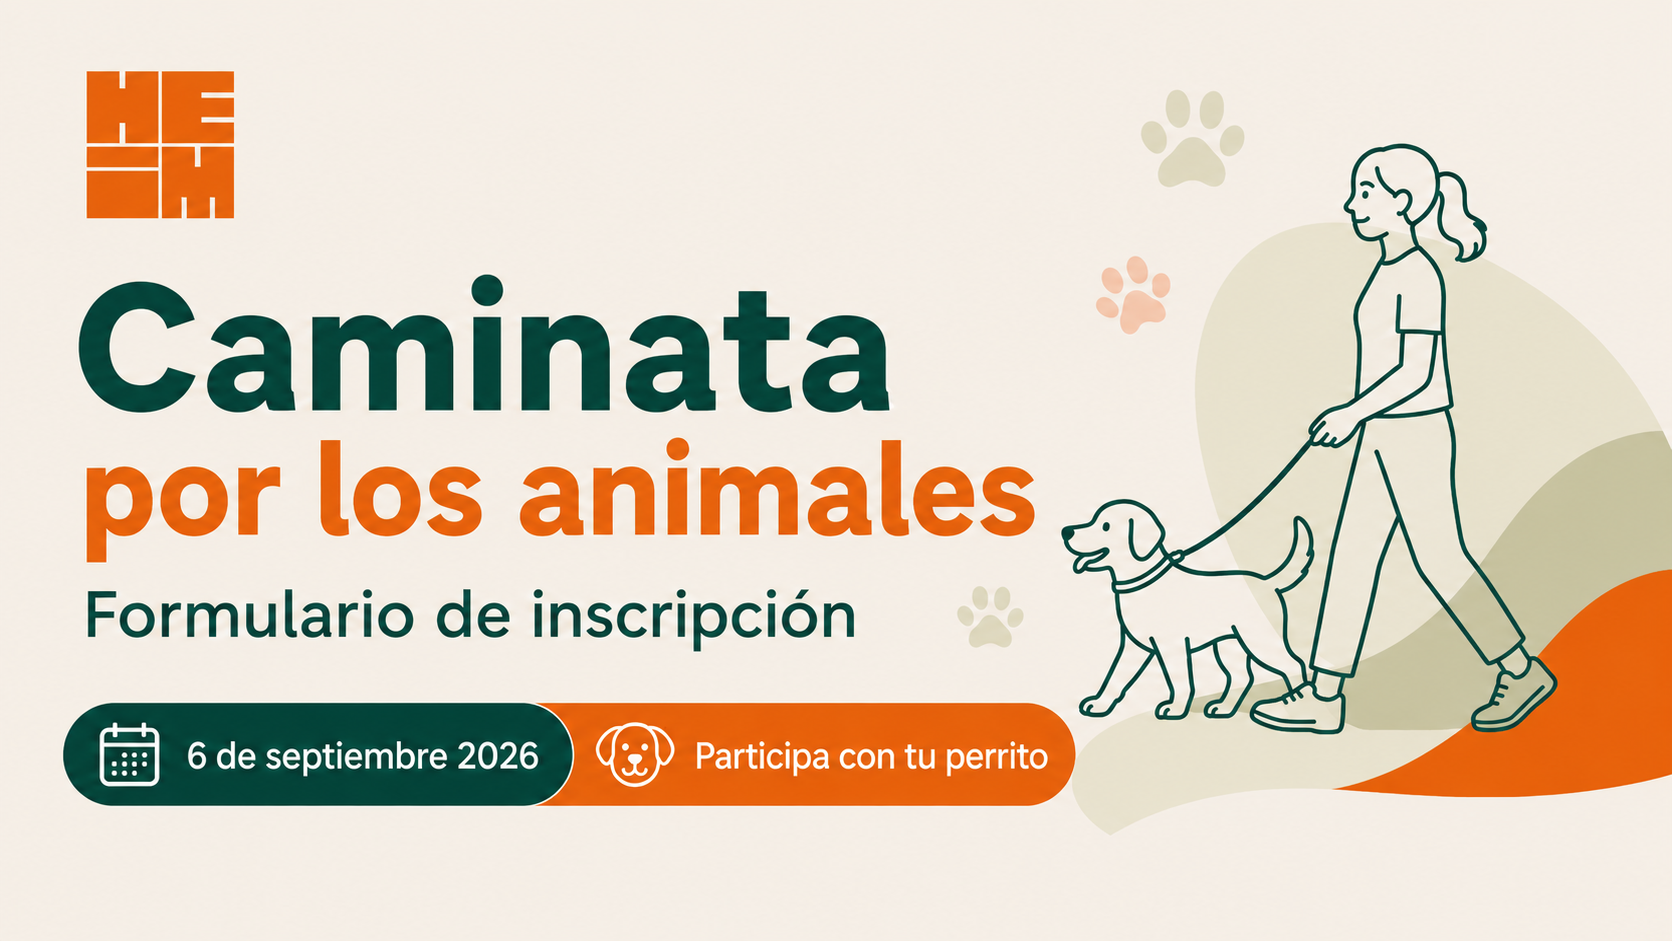
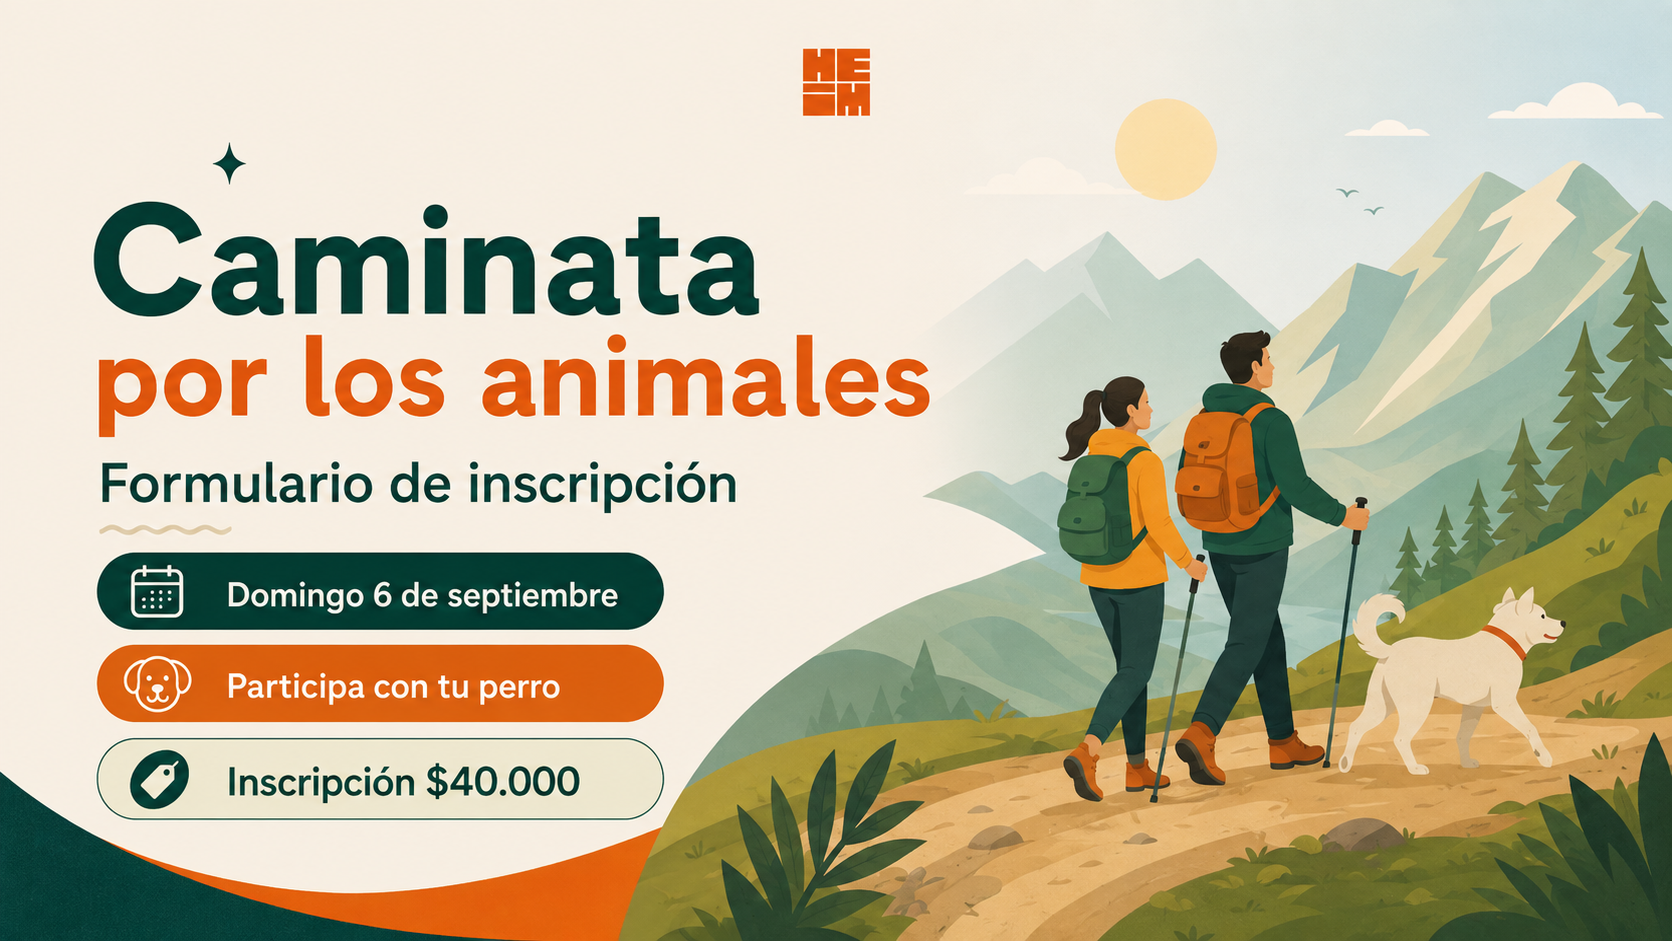
SEO: actualizar portada del enlace (nueva imagen de caminata)
- Reemplaza public/og-cover.png con la portada actualizada
- Versiona la URL de la imagen (?v=2) para invalidar la caché de
  WhatsApp/redes al compartir el enlace

diff --git a/src/app/layout.tsx b/src/app/layout.tsx
@@ -44,7 +44,7 @@ export const metadata: Metadata = {
     description,
     images: [
       {
-        url: "/og-cover.png",
+        url: "/og-cover.png?v=2",
         width: 1672,
         height: 941,
         alt: "Caminata por los animales — Formulario de inscripción · 6 de septiembre 2026",
@@ -55,7 +55,7 @@ export const metadata: Metadata = {
     card: "summary_large_image",
     title,
     description,
-    images: ["/og-cover.png"],
+    images: ["/og-cover.png?v=2"],
   },
   icons: {
     icon: "/icon.png",
@@ -83,7 +83,7 @@ export default function RootLayout({ children }: LayoutProps<"/">) {
     eventStatus: "https://schema.org/EventScheduled",
     eventAttendanceMode: "https://schema.org/OfflineEventAttendanceMode",
     description,
-    image: [`${siteUrl}/og-cover.png`],
+    image: [`${siteUrl}/og-cover.png?v=2`],
     organizer: { "@type": "Organization", name: "HEIM", url: siteUrl },
     location: {
       "@type": "Place",
